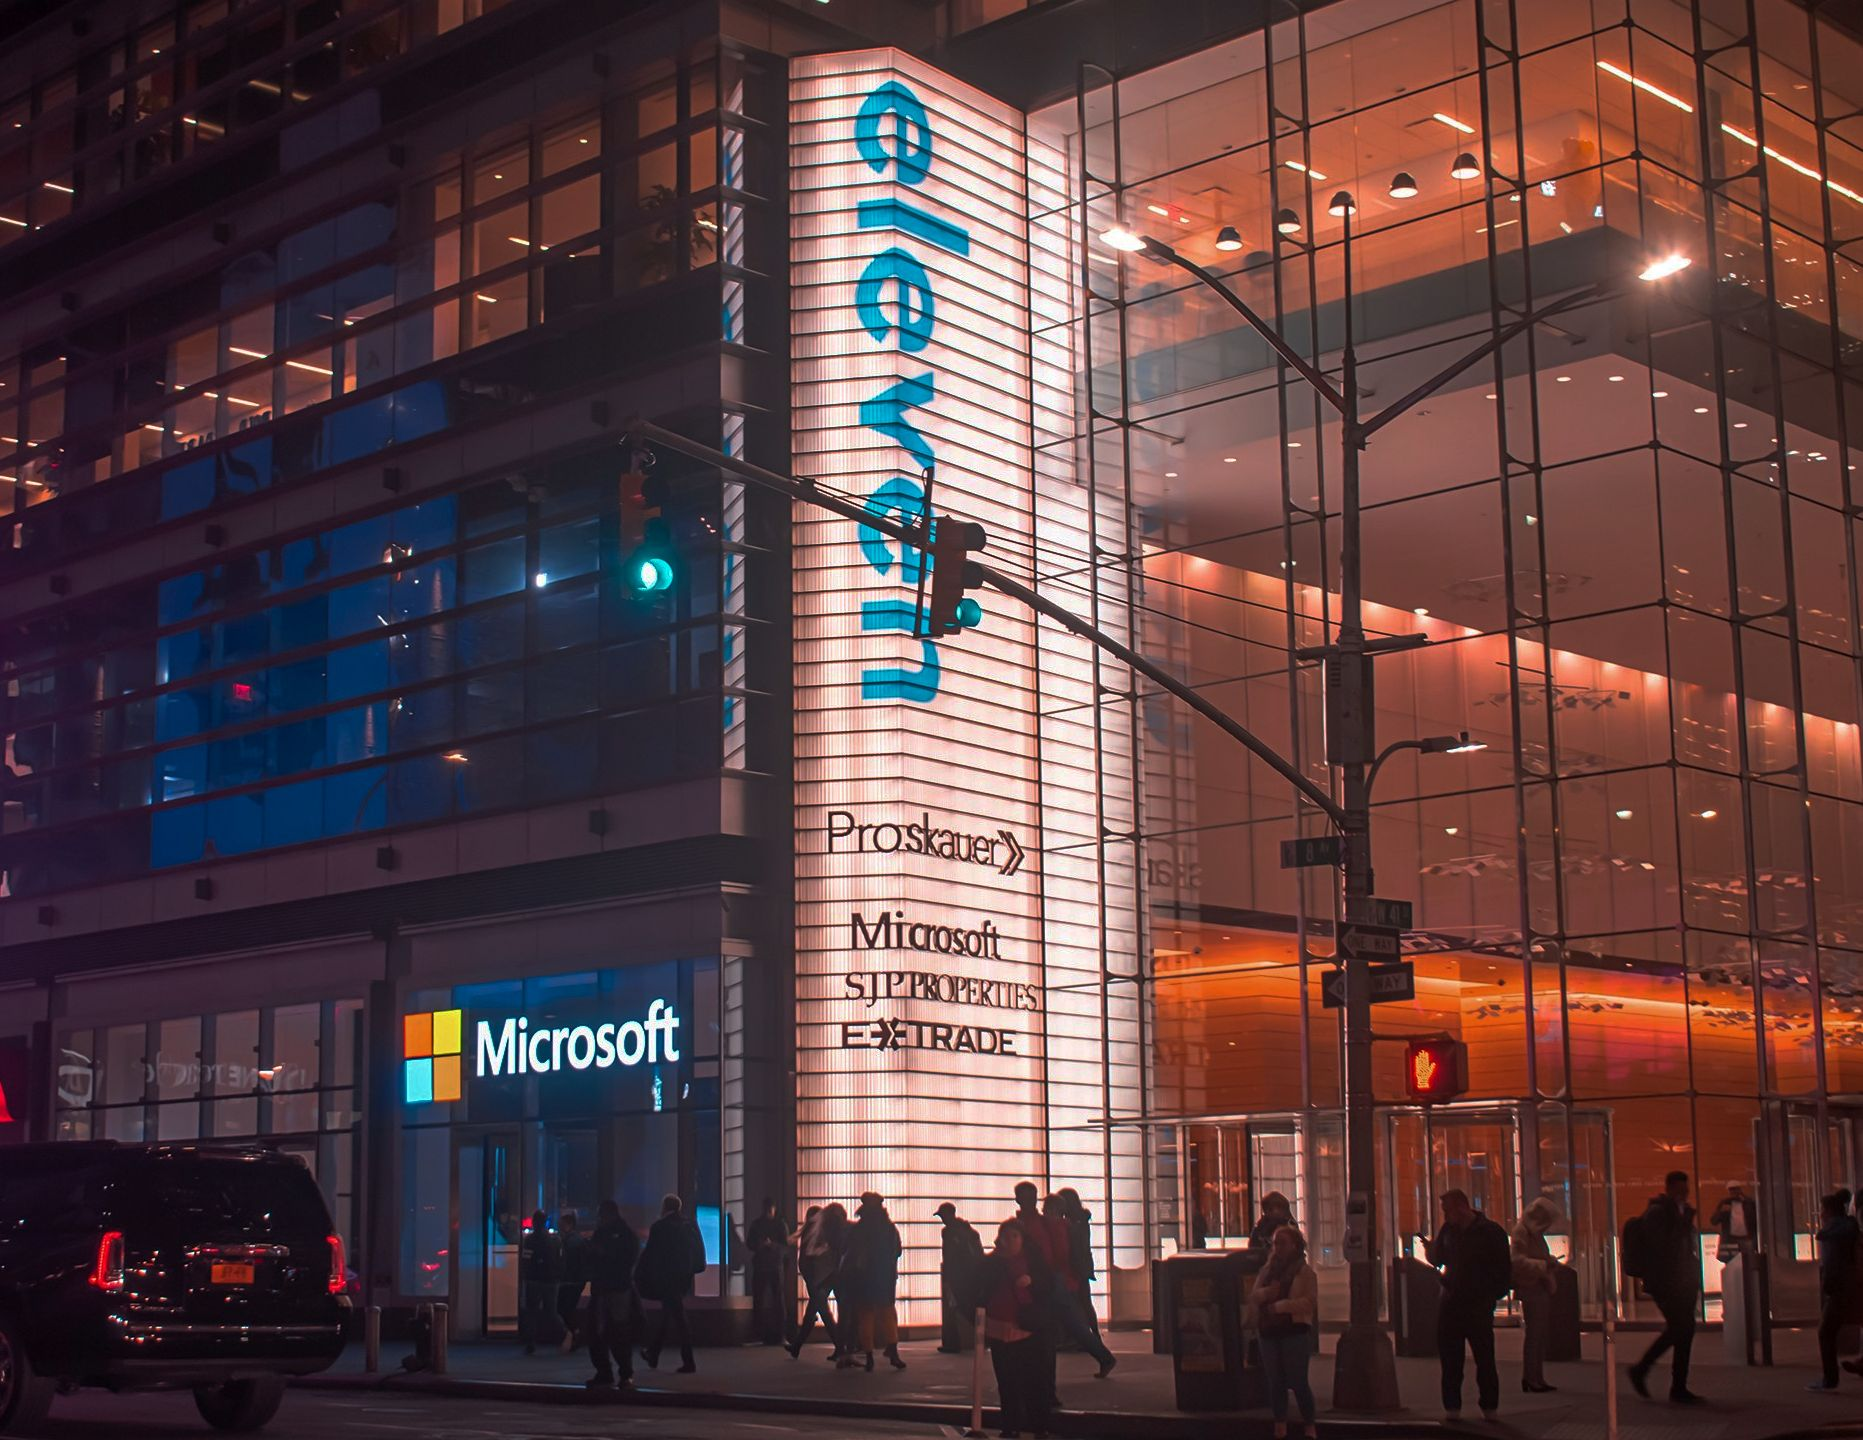
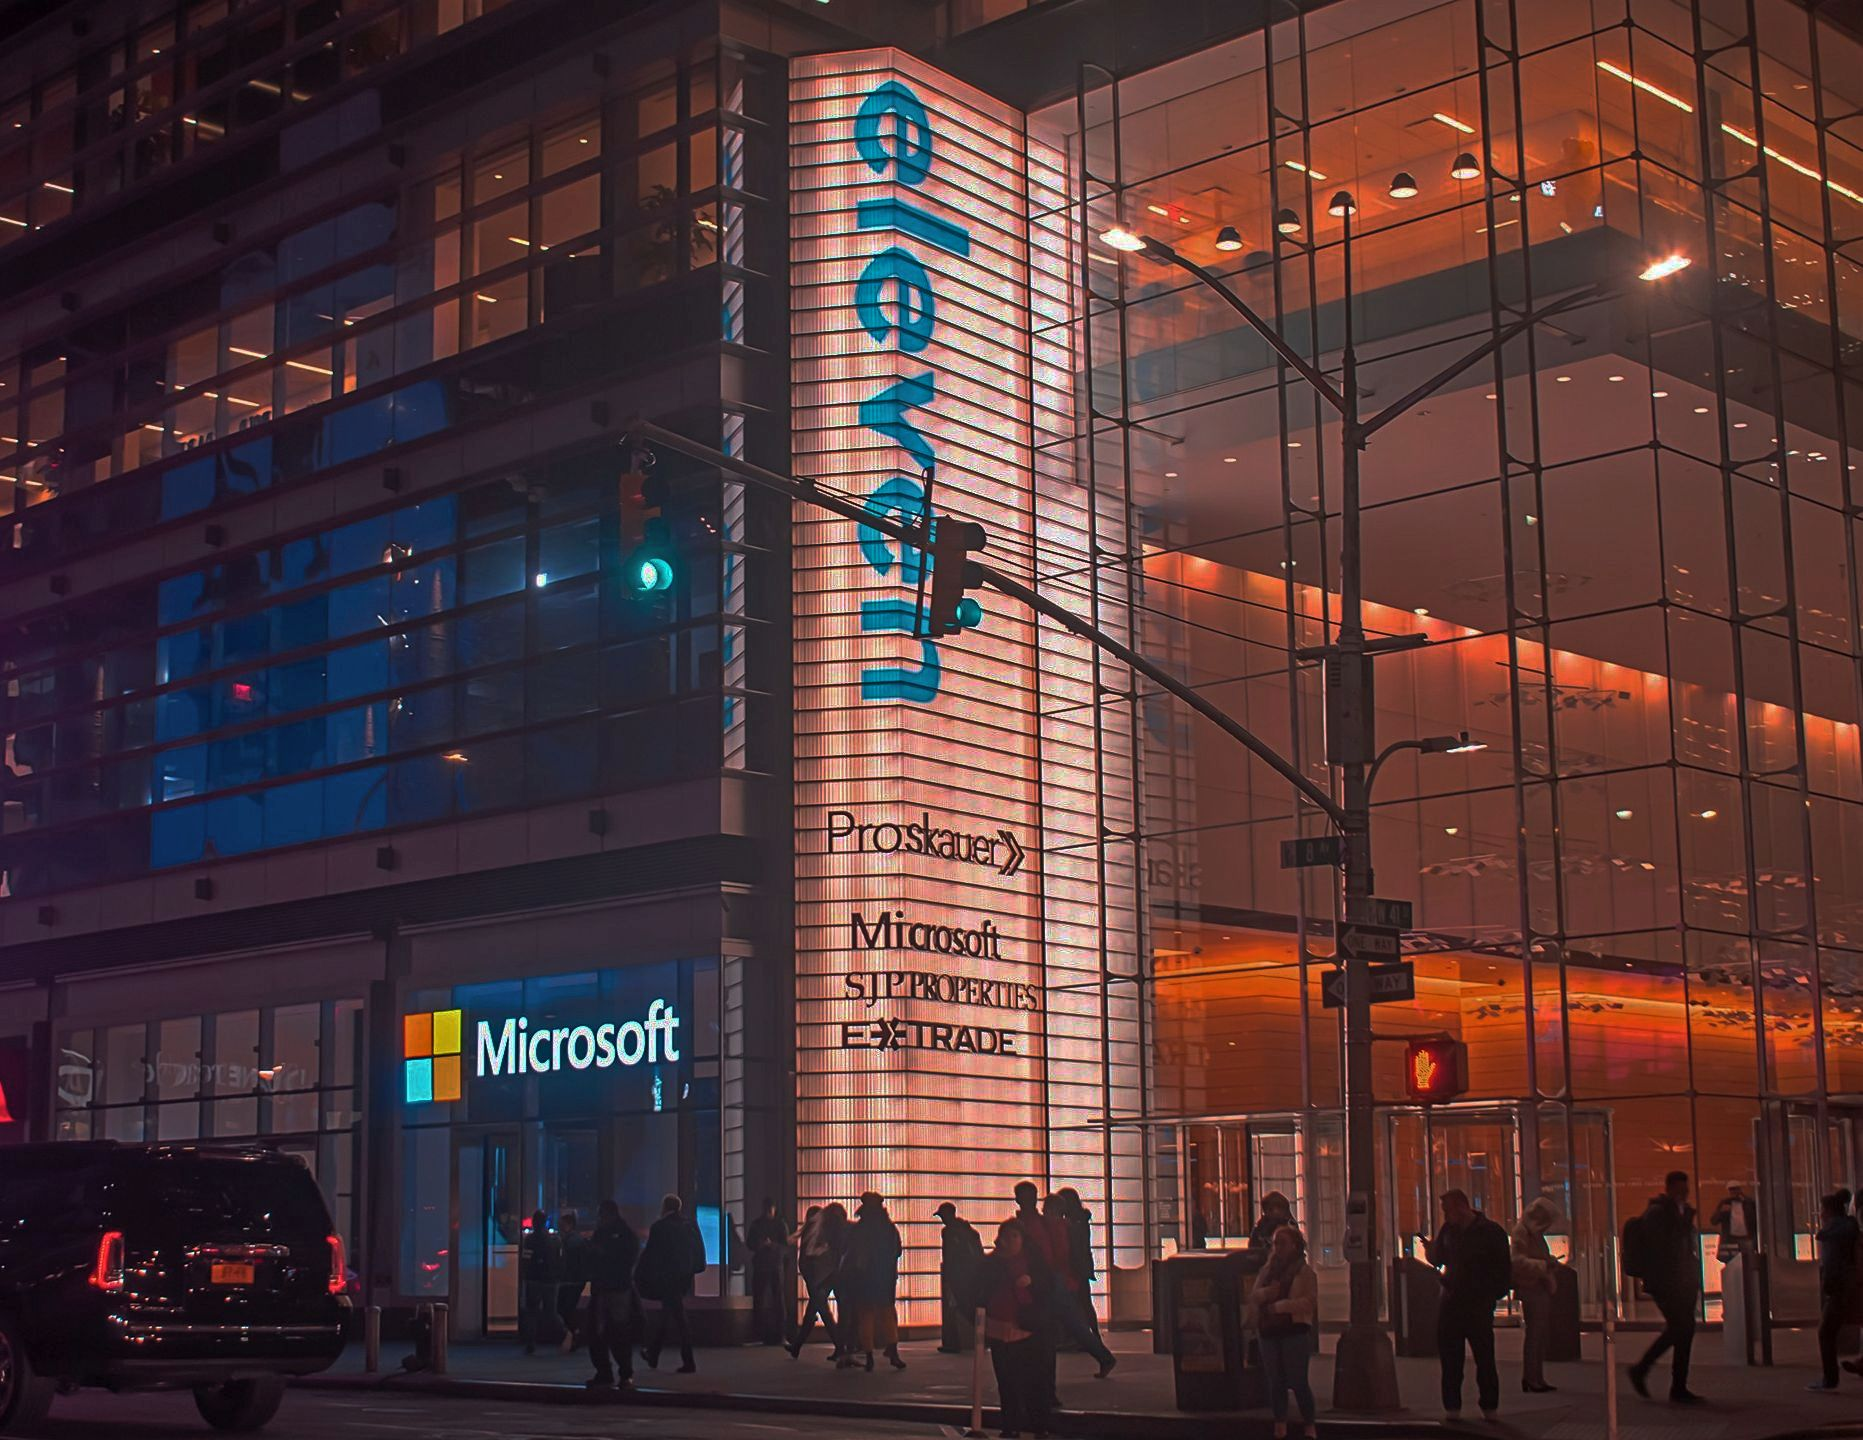
fixed background and made text larger

diff --git a/views/hackathon.html b/views/hackathon.html
@@ -2,9 +2,9 @@
 {% block content %}
 <div>
   <div class="jumbotron jumbotron-fluid text-center align-items-center m-0"
-       style="padding: 10em 0 10em 0; color: white;background: url('/venue-darker.jpg') 0 -40px; background-size: cover;text-shadow: 2px 3px black;">
+       style="padding: 10em 0 10em 0; color: white;background: url('/venue-blur-dark.jpg') 0 -40px; background-size: cover;text-shadow: 2px 3px black;">
       <h2 class="display-4" style="display: none">Blockchains4Hacks 2020</h2>
-      <h4 class="lead" style="display: none">May 30-31, 2020</h4>
+      <h4 class="lead" style="display: none; font-size: 2rem;">May 30-31, 2020</h4>
     </div>
   </div>
 <div>
